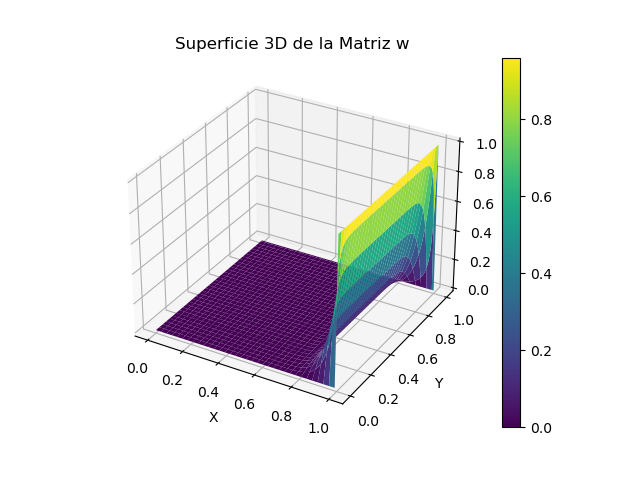
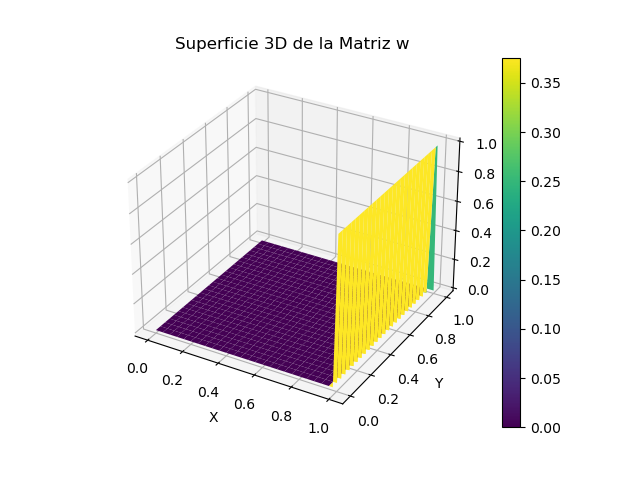
helmshoth

diff --git a/eliptica.py b/eliptica.py
@@ -14,30 +14,30 @@ d = float(input('Ingresar valor de d: '))
 # Cálculo de pasos
 h = (b - a) / N
 k = (d - c) / M
+l = float(input('Ingresar valor de l: '))
 
 # Inicialización de la matriz w con dimensiones correctas
 w = np.zeros((N+1, M+1))  # +1 para incluir los bordes
 
 # Función f(i, j) como fuente
 def f(i, j):
-    # Esta función debe ser actualizada según el problema específico
     return 0
-
-
+    # return 0 ecuacion de poisson
+    #return (a+h*i)*(c+k*j)*(1-a-h*i)*(1-c-k*j) 
+  
 for i in range(N):
     w[i][0] = 0  # Frontera inferior
-    w[i][M] =  0 #(a+h*i)**2 # Frontera superior/ #recordar que xi= xo(a) + ih
+    w[i][M] =  0  #(a+h*i)**2 Frontera superior, recordar que x_i= x_o(a) + ih
 
 for j in range(M):
-    w[0][j] =  0 #1-(c+k*j)**2  # Frontera izquierda
-    w[N][j] = 1 # Frontera derecha
+    w[0][j] =  0  #1-(c+k*j)**2  Frontera izquierda
+    w[N][j] = 1  # Frontera derecha
 
 # Iteraciones para la solución
 for iter in range(100):  # Número de iteraciones
     for i in range(1, N):
         for j in range(1, M):
-            w[i][j] = (k**2*(w[i+1][j]+w[i-1][j]) + h**2*(w[i][j+1]+w[i][j-1]) - 2*h**2*k**2*w[i][j]) / (2*(h**2 + k**2))
-
+            w[i][j] = (k**2*(w[i+1][j]+w[i-1][j]) + h**2*(w[i][j+1]+w[i][j-1]) - 2*h**2*k**2*f(i,j)) / (2*(h**2 + k**2) + h**2*k**2*(l**2))
 
 # Crear una malla de coordenadas para graficar
 x = np.linspace(a, b, N+1)
